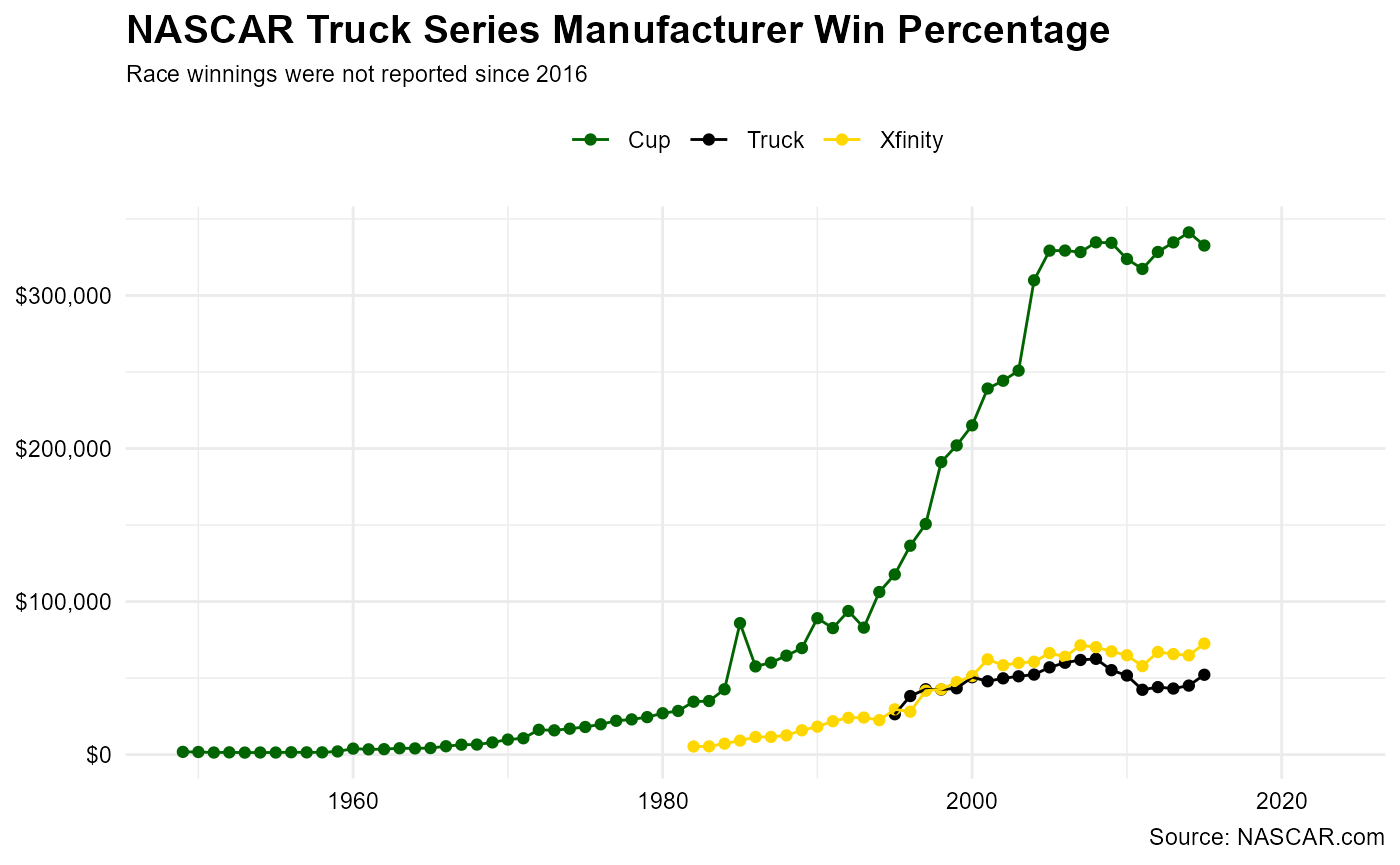
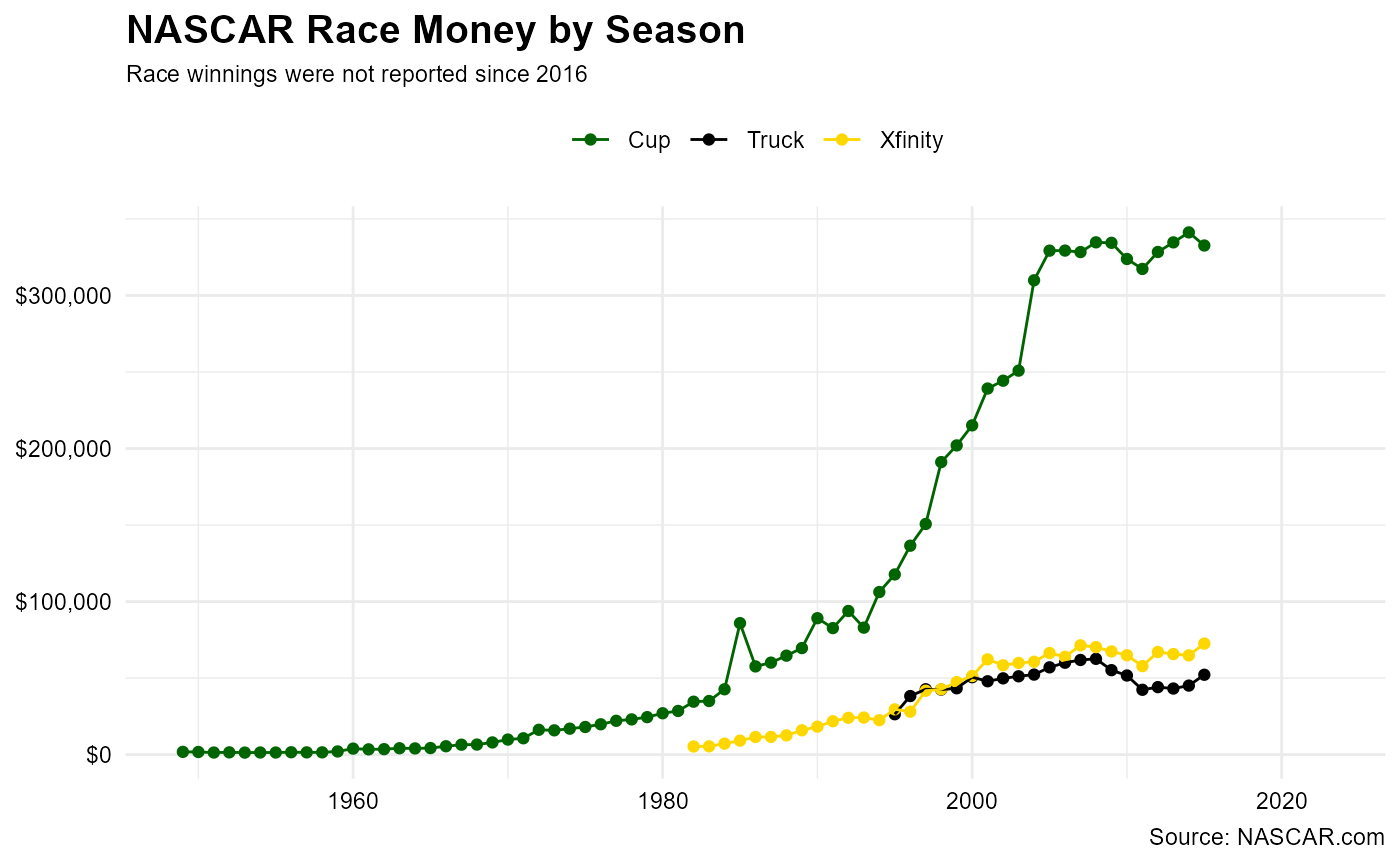
updated build prior to CRAN checks

Changed region(s): [[0.215, 0.0, 0.7986, 0.0624]]

diff --git a/docs/index.html b/docs/index.html
@@ -5,14 +5,14 @@
 <meta charset="utf-8">
 <meta http-equiv="X-UA-Compatible" content="IE=edge">
 <meta name="viewport" content="width=device-width, initial-scale=1, shrink-to-fit=no">
-<meta name="description" content="A collection of NASCAR race, driver, owner and manufacturer data across the three major NASCAR divisions: NASCAR Cup Series, NASCAR Xfinity Series, and NASCAR Craftsman Truck Series. The curated data begins with the 1949 season and extends through the end of the 2023 season. Data was sourced from the official NASCAR web site (&lt;https://www.nascar.com/&gt;), DriverAverages.com (&lt;https://www.driveraverages.com/&gt;), and Racing-Reference.info (&lt;https://www.racing-reference.info/nascar-cup-series-stats/&gt;, &lt;https://www.racing-reference.info/nascar-xfinity-series-stats/&gt;, &lt;https://www.racing-reference.info/nascar-trucks-series-page/&gt;).">
+<meta name="description" content="A collection of NASCAR race, driver, owner and manufacturer data across the three major NASCAR divisions: NASCAR Cup Series, NASCAR Xfinity Series, and NASCAR Craftsman Truck Series. The curated data begins with the 1949 season and extends through the end of the 2023 season. Data was sourced with permission from DriverAverages.com.">
 <title>NASCAR Race Data • nascaR.data</title>
 <script src="deps/jquery-3.6.0/jquery-3.6.0.min.js"></script><meta name="viewport" content="width=device-width, initial-scale=1, shrink-to-fit=no">
 <link href="deps/bootstrap-5.3.1/bootstrap.min.css" rel="stylesheet">
 <script src="deps/bootstrap-5.3.1/bootstrap.bundle.min.js"></script><!-- Font Awesome icons --><link rel="stylesheet" href="https://cdnjs.cloudflare.com/ajax/libs/font-awesome/5.12.1/css/all.min.css" integrity="sha256-mmgLkCYLUQbXn0B1SRqzHar6dCnv9oZFPEC1g1cwlkk=" crossorigin="anonymous">
 <link rel="stylesheet" href="https://cdnjs.cloudflare.com/ajax/libs/font-awesome/5.12.1/css/v4-shims.min.css" integrity="sha256-wZjR52fzng1pJHwx4aV2AO3yyTOXrcDW7jBpJtTwVxw=" crossorigin="anonymous">
 <!-- bootstrap-toc --><script src="https://cdn.jsdelivr.net/gh/afeld/bootstrap-toc@v1.0.1/dist/bootstrap-toc.min.js" integrity="sha256-4veVQbu7//Lk5TSmc7YV48MxtMy98e26cf5MrgZYnwo=" crossorigin="anonymous"></script><!-- headroom.js --><script src="https://cdnjs.cloudflare.com/ajax/libs/headroom/0.11.0/headroom.min.js" integrity="sha256-AsUX4SJE1+yuDu5+mAVzJbuYNPHj/WroHuZ8Ir/CkE0=" crossorigin="anonymous"></script><script src="https://cdnjs.cloudflare.com/ajax/libs/headroom/0.11.0/jQuery.headroom.min.js" integrity="sha256-ZX/yNShbjqsohH1k95liqY9Gd8uOiE1S4vZc+9KQ1K4=" crossorigin="anonymous"></script><!-- clipboard.js --><script src="https://cdnjs.cloudflare.com/ajax/libs/clipboard.js/2.0.11/clipboard.min.js" integrity="sha512-7O5pXpc0oCRrxk8RUfDYFgn0nO1t+jLuIOQdOMRp4APB7uZ4vSjspzp5y6YDtDs4VzUSTbWzBFZ/LKJhnyFOKw==" crossorigin="anonymous" referrerpolicy="no-referrer"></script><!-- search --><script src="https://cdnjs.cloudflare.com/ajax/libs/fuse.js/6.4.6/fuse.js" integrity="sha512-zv6Ywkjyktsohkbp9bb45V6tEMoWhzFzXis+LrMehmJZZSys19Yxf1dopHx7WzIKxr5tK2dVcYmaCk2uqdjF4A==" crossorigin="anonymous"></script><script src="https://cdnjs.cloudflare.com/ajax/libs/autocomplete.js/0.38.0/autocomplete.jquery.min.js" integrity="sha512-GU9ayf+66Xx2TmpxqJpliWbT5PiGYxpaG8rfnBEk1LL8l1KGkRShhngwdXK1UgqhAzWpZHSiYPc09/NwDQIGyg==" crossorigin="anonymous"></script><script src="https://cdnjs.cloudflare.com/ajax/libs/mark.js/8.11.1/mark.min.js" integrity="sha512-5CYOlHXGh6QpOFA/TeTylKLWfB3ftPsde7AnmhuitiTX4K5SqCLBeKro6sPS8ilsz1Q4NRx3v8Ko2IBiszzdww==" crossorigin="anonymous"></script><!-- pkgdown --><script src="pkgdown.js"></script><meta property="og:title" content="NASCAR Race Data">
-<meta property="og:description" content="A collection of NASCAR race, driver, owner and manufacturer data across the three major NASCAR divisions: NASCAR Cup Series, NASCAR Xfinity Series, and NASCAR Craftsman Truck Series. The curated data begins with the 1949 season and extends through the end of the 2023 season. Data was sourced from the official NASCAR web site (&lt;https://www.nascar.com/&gt;), DriverAverages.com (&lt;https://www.driveraverages.com/&gt;), and Racing-Reference.info (&lt;https://www.racing-reference.info/nascar-cup-series-stats/&gt;, &lt;https://www.racing-reference.info/nascar-xfinity-series-stats/&gt;, &lt;https://www.racing-reference.info/nascar-trucks-series-page/&gt;).">
+<meta property="og:description" content="A collection of NASCAR race, driver, owner and manufacturer data across the three major NASCAR divisions: NASCAR Cup Series, NASCAR Xfinity Series, and NASCAR Craftsman Truck Series. The curated data begins with the 1949 season and extends through the end of the 2023 season. Data was sourced with permission from DriverAverages.com.">
 <!-- mathjax --><script src="https://cdnjs.cloudflare.com/ajax/libs/mathjax/2.7.5/MathJax.js" integrity="sha256-nvJJv9wWKEm88qvoQl9ekL2J+k/RWIsaSScxxlsrv8k=" crossorigin="anonymous"></script><script src="https://cdnjs.cloudflare.com/ajax/libs/mathjax/2.7.5/config/TeX-AMS-MML_HTMLorMML.js" integrity="sha256-84DKXVJXs0/F8OTMzX4UR909+jtl4G7SPypPavF+GfA=" crossorigin="anonymous"></script><!--[if lt IE 9]>
 <script src="https://oss.maxcdn.com/html5shiv/3.7.3/html5shiv.min.js"></script>
 <script src="https://oss.maxcdn.com/respond/1.4.2/respond.min.js"></script>
@@ -41,7 +41,6 @@
 <li class="nav-item dropdown">
   <a href="#" class="nav-link dropdown-toggle" data-bs-toggle="dropdown" role="button" aria-expanded="false" aria-haspopup="true" id="dropdown-articles">Articles</a>
   <div class="dropdown-menu" aria-labelledby="dropdown-articles">
-    <a class="dropdown-item" href="articles/cup_series_data.html">NASCAR Series Data</a>
     <a class="dropdown-item" href="articles/nascaR.data_vignette.html">A Race Winning Strategy</a>
   </div>
 </li>
@@ -70,10 +69,8 @@
   <main id="main" class="col-md-9"><div class="section level1">
 <div class="page-header"><h1 id="nascardata">nascaR.data<a class="anchor" aria-label="anchor" href="#nascardata"></a>
 </h1></div>
-<div align="center">
-<img src="reference/figures/NASCAR-Bar-mark.png" alt="NASCAR Bar Mark" width="450"><p>
-<i>Image source:</i> <a href="https://www.nascar.com/wp-content/uploads/sites/7/2019/06/NASCAR-Bar-mark.jpg" class="external-link">NASCAR.com</a>
-</p>
+<div class="float">
+<img src="inst/images/NASCAR-Bar-mark.jpg" alt="NASCAR Logo"><div class="figcaption">NASCAR Logo</div>
 </div>
 <hr>
 <p><strong>nascaR.data</strong> is a curated group of datasets across NASCAR’s top three series: Cup, Xfinity, and Trucks. There are 21 sets available to explore &amp; use for creating tables or other data visualizations.</p>
@@ -89,8 +86,70 @@
 <li><label><input type="checkbox" checked>R package tidbits (completed: 6/21/2024)</label></li>
 <li><label><input type="checkbox" checked>R package submitted to CRAN (completed: 6/23/2024)</label></li>
 </ul>
-<hr>
-<p>The data has been obtained from <a href="https://www.nascar.com" class="external-link">NASCAR</a>, with permission from <a href="https://www.driveraverages.com/" class="external-link">DriverAverages.com</a>, and supplemented with <a href="https://www.racing-reference.info/" class="external-link">Racing-Reference.info</a>.</p>
+<table style="width:7%;" class="table">
+<colgroup><col width="6%"></colgroup>
+<tbody><tr class="odd">
+<td>The data has been obtained from <a href="https://www.nascar.com/" class="external-link">NASCAR</a>, with permission from <a href="https://www.driveraverages.com/" class="external-link">DriverAverages.com</a>, and supplemented with <a href="https://www.racing-reference.info/" class="external-link">Racing-Reference.info</a>.</td>
+</tr></tbody>
+</table>
+<div class="section level2">
+<h2 id="in-the-pits">In the Pits<a class="anchor" aria-label="anchor" href="#in-the-pits"></a>
+</h2>
+<p>NASCAR is one of the top-tier racing sports in North America and competes against F1 and IndyCar for the top viewership spot. Approximately 3.22 million people watch a race on any given weekend throughout the season. The <code>nascaR.data</code> package is the result of wanting to share a passion for the sport and provide an option to the typical go-to packages when learning new data visualization tools.</p>
+<p><code>nascaR.data</code> is packed full of NASCAR results dating back to the first Daytona Beach race in 1949! Use this package to discover race trends across the NASCAR Cup Series, Xfinity Series, and Craftsman Truck Series. Answer fun questions like “which driver has accumulated the most wins overall?”, “which owner has the best top 10 percentage at Daytona?”, or see which manufacturer has dominated which series in a certain season. It’s all here, so let’s strap in to our race seats, fire up those engines, and let’s take some warm-up laps.</p>
+</div>
+<div class="section level2">
+<h2 id="warming-up-the-tires">Warming up the tires<a class="anchor" aria-label="anchor" href="#warming-up-the-tires"></a>
+</h2>
+<p><code>nascaR.data</code> provides access to 21 different datasets (7 per series) and are broken down by overall race results and driver, owner, and manufacturer season &amp; career records. Let’s check our gauges and see what’s under the hood:</p>
+<p><code>{r, echo=TRUE} library(nascaR.data)</code></p>
+<p>Use <code><a href="reference/cup_race_data.html">?nascaR.data::cup_race_data</a></code> to view a list of variable descriptions. This package has been designed to swap <code>cup</code> for <code>xfinity</code> or <code>truck</code> to see the same data structure (variables) for the respective series. Would you rather inspect driver-specific results listed by season or their overall career? No problem… this is an easy pit stop: <code>cup_driver_career</code> or <code>xfinity_owner_season</code> or <code>truck_mfg_overall</code>.</p>
+</div>
+<div class="section level2">
+<h2 id="green-flag">Green Flag!<a class="anchor" aria-label="anchor" href="#green-flag"></a>
+</h2>
+<p><strong>Which drivers are in the Top 5 for wins in the NASCAR Cup Series?</strong></p>
+<p>First, organize the drivers in descending order by win. Then, subset to keep the Top 5 winningest drivers. Lastly, feed the data into a horizontal bar chart (some other tweaks will be applied to enhance the visual output).</p>
+<p><code>{r, echo=TRUE, eval=FALSE, warning=FALSE} cup_driver_career |&gt;   arrange(desc(career_wins)) |&gt;   slice_head(n = 5) |&gt;   ggplot(aes(driver, career_wins)) +   geom_bar(stat = 'identity') +   coord_flip()</code></p>
+<div class="float">
+<img src="inst/images/nascar-top-5.png" alt="NASCAR Top 5 wins"><div class="figcaption">NASCAR Top 5 wins</div>
+</div>
+<p>Wow! This doesn’t even look like a close race. Richard Petty clearly leads the field with 200 wins. However, let’s take a drive a little deeper into the turn and account for the number of races each driver competed in. What if we compare these same five drivers by win percentage?</p>
+<p><code>{r, echo=TRUE, eval=FALSE, warning=FALSE} cup_driver_career |&gt;   arrange(desc(career_wins)) |&gt;   slice_head(n = 5) |&gt;   ggplot(aes(driver, career_win_pct)) +   geom_bar(stat = 'identity') +   coord_flip()</code></p>
+<div class="float">
+<img src="inst/images/nascar-top-5-pct.png" alt="NASCAR Top 5 percent wins"><div class="figcaption">NASCAR Top 5 percent wins</div>
+</div>
+</div>
+<div class="section level2">
+<h2 id="the-garage-area">The Garage Area<a class="anchor" aria-label="anchor" href="#the-garage-area"></a>
+</h2>
+<p><strong>Which manufacturer has the best win percentage by season?</strong></p>
+<p>Let’s go behind the pits and see what the manufacturers are up to in the Truck Series.</p>
+<p><code>{r, eval=FALSE, warning=FALSE} truck_mfg_season |&gt;   ggplot(aes(season, mfg_season_win_pct, group = manufacturer, color = manufacturer)) +   geom_line() +   geom_point()</code></p>
+<div class="float">
+<img src="inst/images/truck-mfg.png" alt="NASCAR Truck manufacturer win percent by season"><div class="figcaption">NASCAR Truck manufacturer win percent by season</div>
+</div>
+<p>No clear trend emerges, though it appears that there may be a 5-year clustering of winning percentage. For example, the Dodges experienced success in the early 2000s, but started to fall off before exiting the series. And while Ford has seemingly had gradual improvement, you can clearly see the success of the Toyota camp since joining the Truck series in 2004.</p>
+</div>
+<div class="section level2">
+<h2 id="post-race">Post-race<a class="anchor" aria-label="anchor" href="#post-race"></a>
+</h2>
+<p><strong>Collect your race winnings</strong></p>
+<p>How has the average money for winning a race changed over time?</p>
+<p>```{r, eval=FALSE,, warning=FALSE} cup &lt;- cup_race_data |&gt; mutate(series = ‘Cup’) |&gt; filter(finish == 1) |&gt; select(season, race, finish, money, series)</p>
+<p>xfinity &lt;- xfinity_race_data |&gt; mutate(series = ‘Xfinity’) |&gt; filter(finish == 1) |&gt; select(season, race, driver, money, series)</p>
+<p>truck &lt;- truck_race_data |&gt; mutate(series = ‘Truck’) |&gt; filter(finish == 1) |&gt; select(season, race, driver, money, series)</p>
+<p>bind_rows(cup, xfinity, truck) |&gt; group_by(series, season) |&gt; summarize(mean_money = mean(money, na.rm = TRUE)) |&gt; ggplot(aes(season, mean_money, group = series, color = series)) + geom_point() + geom_line() ```</p>
+<div class="float">
+<img src="inst/images/nascar-money.png" alt="NASCAR Win money by season"><div class="figcaption">NASCAR Win money by season</div>
+</div>
+<p>Race winnings in the Cup series experienced exponential growth beginning in the 1980s while Xfinity and Truck Series winnings have remained relatively the same since 2000.</p>
+</div>
+<div class="section level2">
+<h2 id="the-backstretch">The Backstretch<a class="anchor" aria-label="anchor" href="#the-backstretch"></a>
+</h2>
+<p>I hope this gives you a little taste of what is included in this package. There’s plenty of opportunity to further clean and reshape the data for data visualizations or model prepping. I’ll be adding more data throughout the season.</p>
+</div>
 </div>
   </main><aside class="col-md-3"><div class="links">
 <h2 data-toc-skip>Links</h2>
@@ -120,6 +179,7 @@
 <h2 data-toc-skip>Developers</h2>
 <ul class="list-unstyled">
 <li>Kyle Grealis <br><small class="roles"> Author, maintainer </small> <a href="https://orcid.org/0000-0002-9223-8854" target="orcid.widget" aria-label="ORCID" class="external-link"><span class="fab fa-orcid orcid" aria-hidden="true"></span></a> </li>
+<li><a href="authors.html">More about authors...</a></li>
 </ul>
 </div>
 

diff --git a/docs/authors.html b/docs/authors.html
@@ -24,7 +24,6 @@
 <li class="nav-item dropdown">
   <a href="#" class="nav-link dropdown-toggle" data-bs-toggle="dropdown" role="button" aria-expanded="false" aria-haspopup="true" id="dropdown-articles">Articles</a>
   <div class="dropdown-menu" aria-labelledby="dropdown-articles">
-    <a class="dropdown-item" href="articles/cup_series_data.html">NASCAR Series Data</a>
     <a class="dropdown-item" href="articles/nascaR.data_vignette.html">A Race Winning Strategy</a>
   </div>
 </li>
@@ -57,6 +56,10 @@
           <p><strong>Kyle Grealis</strong>. Author, maintainer. <a href="https://orcid.org/0000-0002-9223-8854" target="orcid.widget" aria-label="ORCID" class="external-link"><span class="fab fa-orcid orcid" aria-hidden="true"></span></a>
           </p>
         </li>
+        <li>
+          <p><strong>Gabriel Odom</strong>. Contributor. <a href="https://orcid.org/0000-0003-1341-4555" target="orcid.widget" aria-label="ORCID" class="external-link"><span class="fab fa-orcid orcid" aria-hidden="true"></span></a>
+          </p>
+        </li>
       </ul></div>
 
     <div class="section level2 citation">
@@ -65,13 +68,14 @@
 
       <p>Grealis K (2024).
 <em>nascaR.data: NASCAR Race Data</em>.
-R package version 1.0.0. 
+R package version 1.0.0, <a href="https://github.com/kyleGrealis/nascaR.data/" class="external-link">https://github.com/kyleGrealis/nascaR.data/</a>. 
 </p>
       <pre>@Manual{,
   title = {nascaR.data: NASCAR Race Data},
   author = {Kyle Grealis},
   year = {2024},
   note = {R package version 1.0.0},
+  url = {https://github.com/kyleGrealis/nascaR.data/},
 }</pre>
     </div>
   </main><aside class="col-md-3"><nav id="toc"><h2>On this page</h2>

diff --git a/docs/articles/nascaR.data_vignette.html b/docs/articles/nascaR.data_vignette.html
@@ -41,7 +41,6 @@
 <li class="active nav-item dropdown">
   <a href="#" class="nav-link dropdown-toggle" data-bs-toggle="dropdown" role="button" aria-expanded="false" aria-haspopup="true" id="dropdown-articles">Articles</a>
   <div class="dropdown-menu" aria-labelledby="dropdown-articles">
-    <a class="dropdown-item" href="../articles/cup_series_data.html">NASCAR Series Data</a>
     <a class="dropdown-item" href="../articles/nascaR.data_vignette.html">A Race Winning Strategy</a>
   </div>
 </li>
@@ -95,11 +94,12 @@ Grealis</h4>
 <h2 id="in-the-pits">In the Pits<a class="anchor" aria-label="anchor" href="#in-the-pits"></a>
 </h2>
 <p>NASCAR is one of the top-tier racing sports in North America and
-competes against F1 and IndyCar for the top viewship spot. Approximately
-3.22 million people watch a race on any given weekend throughout the
-season. The <code>nascaR.data</code> package is the result of wanting to
-share a passion for the sport and provide an option to the typical go-to
-packages when learning new data visualization tools.</p>
+competes against F1 and IndyCar for the top viewership spot.
+Approximately 3.22 million people watch a race on any given weekend
+throughout the season. The <code>nascaR.data</code> package is the
+result of wanting to share a passion for the sport and provide an option
+to the typical go-to packages when learning new data visualization
+tools.</p>
 <p><code>nascaR.data</code> is packed full of NASCAR results dating back
 to the first Daytona Beach race in 1949! Use this package to discover
 race trends across the NASCAR Cup Series, Xfinity Series, and Craftsman

diff --git a/docs/reference/truck_driver_career.html b/docs/reference/truck_driver_career.html
@@ -24,7 +24,6 @@
 <li class="nav-item dropdown">
   <a href="#" class="nav-link dropdown-toggle" data-bs-toggle="dropdown" role="button" aria-expanded="false" aria-haspopup="true" id="dropdown-articles">Articles</a>
   <div class="dropdown-menu" aria-labelledby="dropdown-articles">
-    <a class="dropdown-item" href="../articles/cup_series_data.html">NASCAR Series Data</a>
     <a class="dropdown-item" href="../articles/nascaR.data_vignette.html">A Race Winning Strategy</a>
   </div>
 </li>
@@ -136,9 +135,7 @@
 </dl></div>
     <div class="section level2">
     <h2 id="source">Source<a class="anchor" aria-label="anchor" href="#source"></a></h2>
-    <p><a href="https://www.nascar.com/news/nascar-craftsman-truck-series/" class="external-link">https://www.nascar.com/news/nascar-craftsman-truck-series/</a></p>
-<p><a href="https://www.driveraverages.com/nascar_truckseries/" class="external-link">https://www.driveraverages.com/nascar_truckseries/</a></p>
-<p><a href="https://www.racing-reference.info/nascar-trucks-series-page/" class="external-link">https://www.racing-reference.info/nascar-trucks-series-page/</a></p>
+    <p><a href="https://www.driveraverages.com/nascar_truckseries/" class="external-link">https://www.driveraverages.com/nascar_truckseries/</a></p>
 <p><a href="https://en.wikipedia.org/wiki/NASCAR_Craftsman_Truck_Series" class="external-link">https://en.wikipedia.org/wiki/NASCAR_Craftsman_Truck_Series</a></p>
     </div>
 

diff --git a/docs/reference/truck_driver_season.html b/docs/reference/truck_driver_season.html
@@ -24,7 +24,6 @@
 <li class="nav-item dropdown">
   <a href="#" class="nav-link dropdown-toggle" data-bs-toggle="dropdown" role="button" aria-expanded="false" aria-haspopup="true" id="dropdown-articles">Articles</a>
   <div class="dropdown-menu" aria-labelledby="dropdown-articles">
-    <a class="dropdown-item" href="../articles/cup_series_data.html">NASCAR Series Data</a>
     <a class="dropdown-item" href="../articles/nascaR.data_vignette.html">A Race Winning Strategy</a>
   </div>
 </li>
@@ -145,9 +144,7 @@
 </dl></div>
     <div class="section level2">
     <h2 id="source">Source<a class="anchor" aria-label="anchor" href="#source"></a></h2>
-    <p><a href="https://www.nascar.com/news/nascar-craftsman-truck-series/" class="external-link">https://www.nascar.com/news/nascar-craftsman-truck-series/</a></p>
-<p><a href="https://www.driveraverages.com/nascar_truckseries/" class="external-link">https://www.driveraverages.com/nascar_truckseries/</a></p>
-<p><a href="https://www.racing-reference.info/nascar-trucks-series-page/" class="external-link">https://www.racing-reference.info/nascar-trucks-series-page/</a></p>
+    <p><a href="https://www.driveraverages.com/nascar_truckseries/" class="external-link">https://www.driveraverages.com/nascar_truckseries/</a></p>
 <p><a href="https://en.wikipedia.org/wiki/NASCAR_Craftsman_Truck_Series" class="external-link">https://en.wikipedia.org/wiki/NASCAR_Craftsman_Truck_Series</a></p>
     </div>
 

diff --git a/docs/reference/truck_mfg_overall.html b/docs/reference/truck_mfg_overall.html
@@ -24,7 +24,6 @@
 <li class="nav-item dropdown">
   <a href="#" class="nav-link dropdown-toggle" data-bs-toggle="dropdown" role="button" aria-expanded="false" aria-haspopup="true" id="dropdown-articles">Articles</a>
   <div class="dropdown-menu" aria-labelledby="dropdown-articles">
-    <a class="dropdown-item" href="../articles/cup_series_data.html">NASCAR Series Data</a>
     <a class="dropdown-item" href="../articles/nascaR.data_vignette.html">A Race Winning Strategy</a>
   </div>
 </li>
@@ -106,9 +105,7 @@
 </dl></div>
     <div class="section level2">
     <h2 id="source">Source<a class="anchor" aria-label="anchor" href="#source"></a></h2>
-    <p><a href="https://www.nascar.com/news/nascar-craftsman-truck-series/" class="external-link">https://www.nascar.com/news/nascar-craftsman-truck-series/</a></p>
-<p><a href="https://www.driveraverages.com/nascar_truckseries/" class="external-link">https://www.driveraverages.com/nascar_truckseries/</a></p>
-<p><a href="https://www.racing-reference.info/nascar-trucks-series-page/" class="external-link">https://www.racing-reference.info/nascar-trucks-series-page/</a></p>
+    <p><a href="https://www.driveraverages.com/nascar_truckseries/" class="external-link">https://www.driveraverages.com/nascar_truckseries/</a></p>
 <p><a href="https://en.wikipedia.org/wiki/NASCAR_Craftsman_Truck_Series" class="external-link">https://en.wikipedia.org/wiki/NASCAR_Craftsman_Truck_Series</a></p>
     </div>
 

diff --git a/docs/reference/truck_mfg_season.html b/docs/reference/truck_mfg_season.html
@@ -24,7 +24,6 @@
 <li class="nav-item dropdown">
   <a href="#" class="nav-link dropdown-toggle" data-bs-toggle="dropdown" role="button" aria-expanded="false" aria-haspopup="true" id="dropdown-articles">Articles</a>
   <div class="dropdown-menu" aria-labelledby="dropdown-articles">
-    <a class="dropdown-item" href="../articles/cup_series_data.html">NASCAR Series Data</a>
     <a class="dropdown-item" href="../articles/nascaR.data_vignette.html">A Race Winning Strategy</a>
   </div>
 </li>
@@ -109,9 +108,7 @@
 </dl></div>
     <div class="section level2">
     <h2 id="source">Source<a class="anchor" aria-label="anchor" href="#source"></a></h2>
-    <p><a href="https://www.nascar.com/news/nascar-craftsman-truck-series/" class="external-link">https://www.nascar.com/news/nascar-craftsman-truck-series/</a></p>
-<p><a href="https://www.driveraverages.com/nascar_truckseries/" class="external-link">https://www.driveraverages.com/nascar_truckseries/</a></p>
-<p><a href="https://www.racing-reference.info/nascar-trucks-series-page/" class="external-link">https://www.racing-reference.info/nascar-trucks-series-page/</a></p>
+    <p><a href="https://www.driveraverages.com/nascar_truckseries/" class="external-link">https://www.driveraverages.com/nascar_truckseries/</a></p>
 <p><a href="https://en.wikipedia.org/wiki/NASCAR_Craftsman_Truck_Series" class="external-link">https://en.wikipedia.org/wiki/NASCAR_Craftsman_Truck_Series</a></p>
     </div>
 

diff --git a/docs/reference/truck_owner_career.html b/docs/reference/truck_owner_career.html
@@ -24,7 +24,6 @@
 <li class="nav-item dropdown">
   <a href="#" class="nav-link dropdown-toggle" data-bs-toggle="dropdown" role="button" aria-expanded="false" aria-haspopup="true" id="dropdown-articles">Articles</a>
   <div class="dropdown-menu" aria-labelledby="dropdown-articles">
-    <a class="dropdown-item" href="../articles/cup_series_data.html">NASCAR Series Data</a>
     <a class="dropdown-item" href="../articles/nascaR.data_vignette.html">A Race Winning Strategy</a>
   </div>
 </li>
@@ -106,9 +105,7 @@
 </dl></div>
     <div class="section level2">
     <h2 id="source">Source<a class="anchor" aria-label="anchor" href="#source"></a></h2>
-    <p><a href="https://www.nascar.com/news/nascar-craftsman-truck-series/" class="external-link">https://www.nascar.com/news/nascar-craftsman-truck-series/</a></p>
-<p><a href="https://www.driveraverages.com/nascar_truckseries/" class="external-link">https://www.driveraverages.com/nascar_truckseries/</a></p>
-<p><a href="https://www.racing-reference.info/nascar-trucks-series-page/" class="external-link">https://www.racing-reference.info/nascar-trucks-series-page/</a></p>
+    <p><a href="https://www.driveraverages.com/nascar_truckseries/" class="external-link">https://www.driveraverages.com/nascar_truckseries/</a></p>
 <p><a href="https://en.wikipedia.org/wiki/NASCAR_Craftsman_Truck_Series" class="external-link">https://en.wikipedia.org/wiki/NASCAR_Craftsman_Truck_Series</a></p>
     </div>
 

diff --git a/docs/reference/truck_owner_season.html b/docs/reference/truck_owner_season.html
@@ -24,7 +24,6 @@
 <li class="nav-item dropdown">
   <a href="#" class="nav-link dropdown-toggle" data-bs-toggle="dropdown" role="button" aria-expanded="false" aria-haspopup="true" id="dropdown-articles">Articles</a>
   <div class="dropdown-menu" aria-labelledby="dropdown-articles">
-    <a class="dropdown-item" href="../articles/cup_series_data.html">NASCAR Series Data</a>
     <a class="dropdown-item" href="../articles/nascaR.data_vignette.html">A Race Winning Strategy</a>
   </div>
 </li>
@@ -109,9 +108,7 @@
 </dl></div>
     <div class="section level2">
     <h2 id="source">Source<a class="anchor" aria-label="anchor" href="#source"></a></h2>
-    <p><a href="https://www.nascar.com/news/nascar-craftsman-truck-series/" class="external-link">https://www.nascar.com/news/nascar-craftsman-truck-series/</a></p>
-<p><a href="https://www.driveraverages.com/nascar_truckseries/" class="external-link">https://www.driveraverages.com/nascar_truckseries/</a></p>
-<p><a href="https://www.racing-reference.info/nascar-trucks-series-page/" class="external-link">https://www.racing-reference.info/nascar-trucks-series-page/</a></p>
+    <p><a href="https://www.driveraverages.com/nascar_truckseries/" class="external-link">https://www.driveraverages.com/nascar_truckseries/</a></p>
 <p><a href="https://en.wikipedia.org/wiki/NASCAR_Craftsman_Truck_Series" class="external-link">https://en.wikipedia.org/wiki/NASCAR_Craftsman_Truck_Series</a></p>
     </div>
 

diff --git a/docs/reference/truck_race_data.html b/docs/reference/truck_race_data.html
@@ -24,7 +24,6 @@
 <li class="nav-item dropdown">
   <a href="#" class="nav-link dropdown-toggle" data-bs-toggle="dropdown" role="button" aria-expanded="false" aria-haspopup="true" id="dropdown-articles">Articles</a>
   <div class="dropdown-menu" aria-labelledby="dropdown-articles">
-    <a class="dropdown-item" href="../articles/cup_series_data.html">NASCAR Series Data</a>
     <a class="dropdown-item" href="../articles/nascaR.data_vignette.html">A Race Winning Strategy</a>
   </div>
 </li>
@@ -136,9 +135,7 @@
 </dl></div>
     <div class="section level2">
     <h2 id="source">Source<a class="anchor" aria-label="anchor" href="#source"></a></h2>
-    <p><a href="https://www.nascar.com/news/nascar-craftsman-truck-series/" class="external-link">https://www.nascar.com/news/nascar-craftsman-truck-series/</a></p>
-<p><a href="https://www.driveraverages.com/nascar_truckseries/" class="external-link">https://www.driveraverages.com/nascar_truckseries/</a></p>
-<p><a href="https://www.racing-reference.info/nascar-trucks-series-page/" class="external-link">https://www.racing-reference.info/nascar-trucks-series-page/</a></p>
+    <p><a href="https://www.driveraverages.com/nascar_truckseries/" class="external-link">https://www.driveraverages.com/nascar_truckseries/</a></p>
 <p><a href="https://en.wikipedia.org/wiki/NASCAR_Craftsman_Truck_Series" class="external-link">https://en.wikipedia.org/wiki/NASCAR_Craftsman_Truck_Series</a></p>
     </div>
 

diff --git a/docs/reference/xfinity_driver_career.html b/docs/reference/xfinity_driver_career.html
@@ -24,7 +24,6 @@
 <li class="nav-item dropdown">
   <a href="#" class="nav-link dropdown-toggle" data-bs-toggle="dropdown" role="button" aria-expanded="false" aria-haspopup="true" id="dropdown-articles">Articles</a>
   <div class="dropdown-menu" aria-labelledby="dropdown-articles">
-    <a class="dropdown-item" href="../articles/cup_series_data.html">NASCAR Series Data</a>
     <a class="dropdown-item" href="../articles/nascaR.data_vignette.html">A Race Winning Strategy</a>
   </div>
 </li>
@@ -136,9 +135,7 @@
 </dl></div>
     <div class="section level2">
     <h2 id="source">Source<a class="anchor" aria-label="anchor" href="#source"></a></h2>
-    <p><a href="https://www.nascar.com/news/nascar-xfinity-series/" class="external-link">https://www.nascar.com/news/nascar-xfinity-series/</a></p>
-<p><a href="https://www.driveraverages.com/nascar_xfinityseries/" class="external-link">https://www.driveraverages.com/nascar_xfinityseries/</a></p>
-<p><a href="https://www.racing-reference.info/nascar-xfinity-series-stats/" class="external-link">https://www.racing-reference.info/nascar-xfinity-series-stats/</a></p>
+    <p><a href="https://www.driveraverages.com/nascar_xfinityseries/" class="external-link">https://www.driveraverages.com/nascar_xfinityseries/</a></p>
 <p><a href="https://en.wikipedia.org/wiki/NASCAR_Xfinity_Series" class="external-link">https://en.wikipedia.org/wiki/NASCAR_Xfinity_Series</a></p>
     </div>
 

diff --git a/docs/reference/xfinity_driver_season.html b/docs/reference/xfinity_driver_season.html
@@ -24,7 +24,6 @@
 <li class="nav-item dropdown">
   <a href="#" class="nav-link dropdown-toggle" data-bs-toggle="dropdown" role="button" aria-expanded="false" aria-haspopup="true" id="dropdown-articles">Articles</a>
   <div class="dropdown-menu" aria-labelledby="dropdown-articles">
-    <a class="dropdown-item" href="../articles/cup_series_data.html">NASCAR Series Data</a>
     <a class="dropdown-item" href="../articles/nascaR.data_vignette.html">A Race Winning Strategy</a>
   </div>
 </li>
@@ -145,9 +144,7 @@
 </dl></div>
     <div class="section level2">
     <h2 id="source">Source<a class="anchor" aria-label="anchor" href="#source"></a></h2>
-    <p><a href="https://www.nascar.com/news/nascar-xfinity-series/" class="external-link">https://www.nascar.com/news/nascar-xfinity-series/</a></p>
-<p><a href="https://www.driveraverages.com/nascar_xfinityseries/" class="external-link">https://www.driveraverages.com/nascar_xfinityseries/</a></p>
-<p><a href="https://www.racing-reference.info/nascar-xfinity-series-stats/" class="external-link">https://www.racing-reference.info/nascar-xfinity-series-stats/</a></p>
+    <p><a href="https://www.driveraverages.com/nascar_xfinityseries/" class="external-link">https://www.driveraverages.com/nascar_xfinityseries/</a></p>
 <p><a href="https://en.wikipedia.org/wiki/NASCAR_Xfinity_Series" class="external-link">https://en.wikipedia.org/wiki/NASCAR_Xfinity_Series</a></p>
     </div>
 
